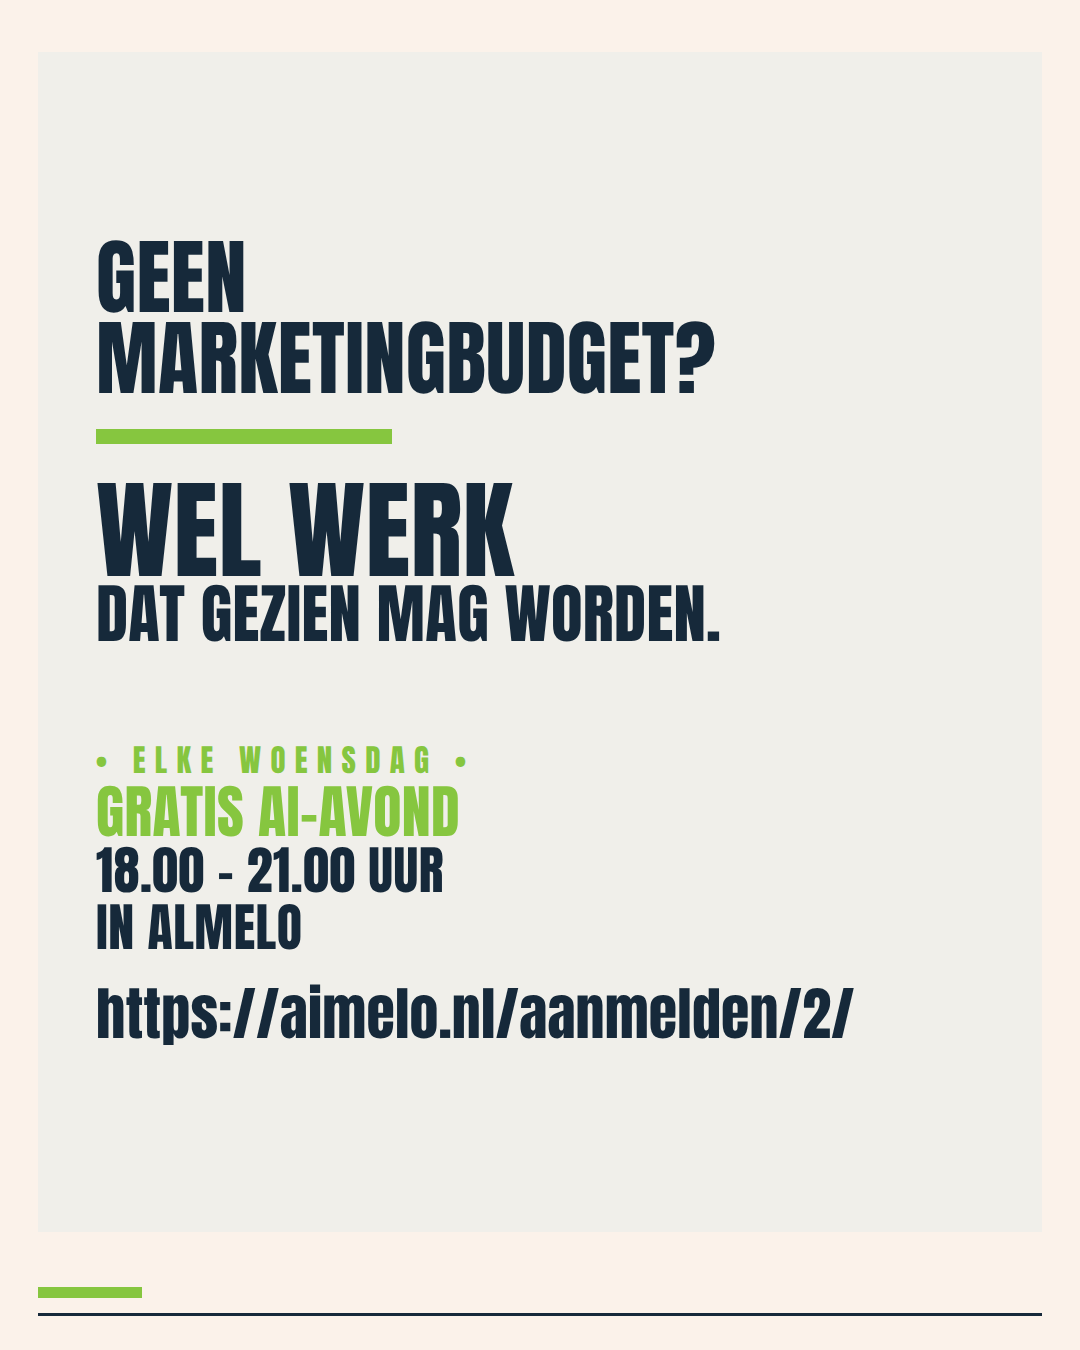
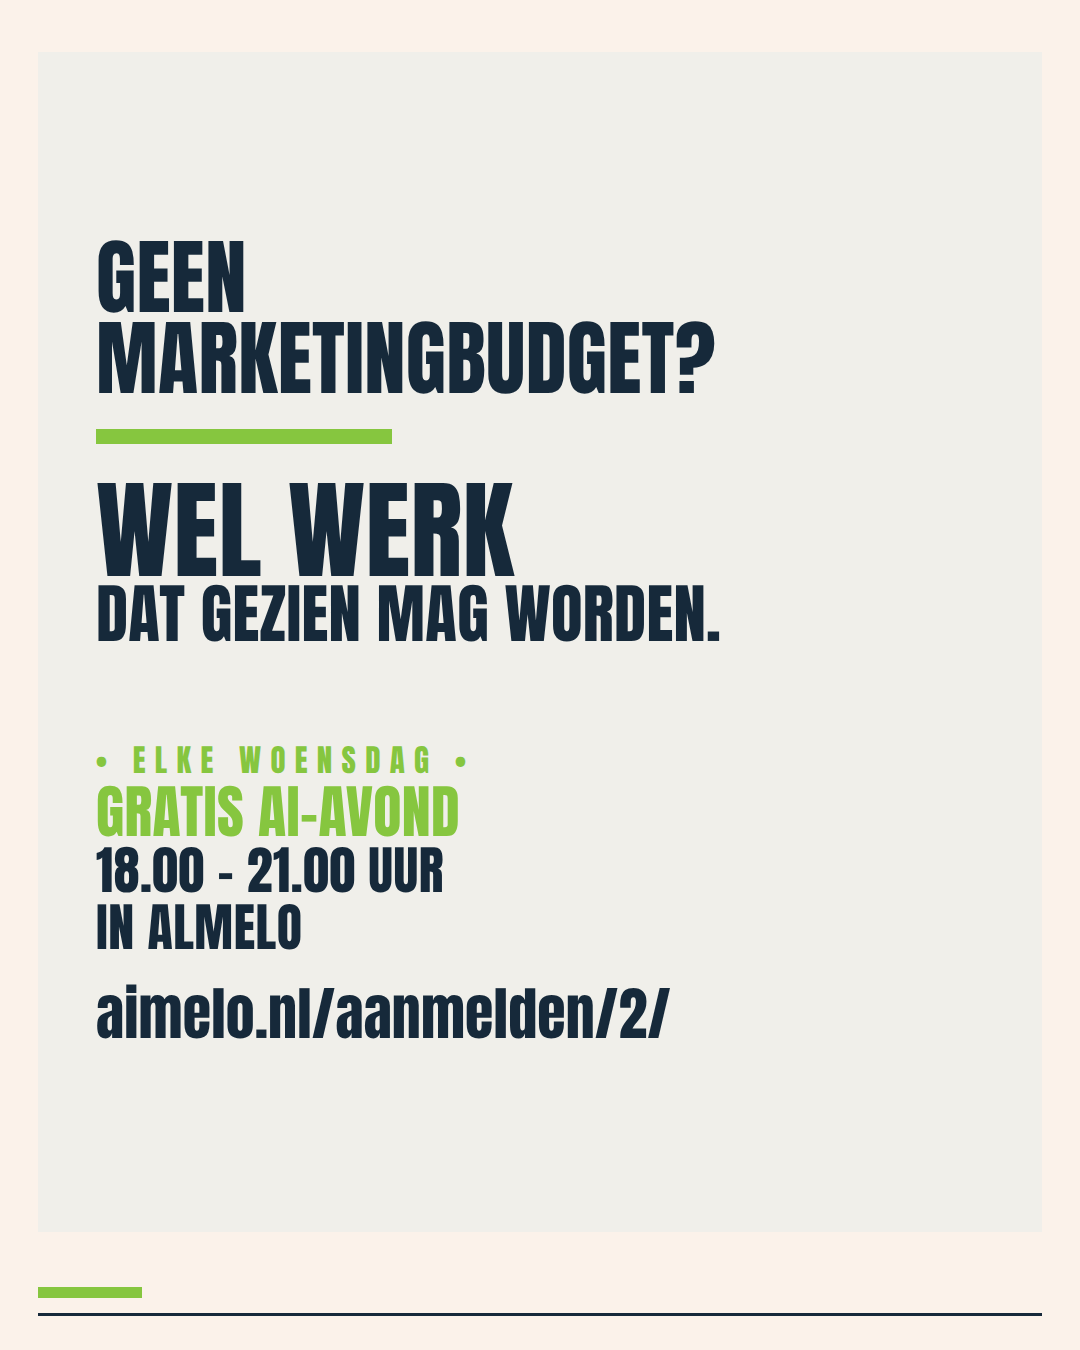
https:// uit de aanmeldlink in beeld
Onderaan elk beeld staat nu aimelo.nl/aanmelden/2/. Dat scheelt ongeveer
een kwart van de breedte en leest rustiger onder het blok met tijd en
locatie. Alle 15 beelden opnieuw gerenderd in beide formaten.

Changed region(s): [[0.0917, 0.7156, 0.7944, 0.7778]]

diff --git a/beeld/bron/dag-01-4x5.html b/beeld/bron/dag-01-4x5.html
@@ -32,7 +32,7 @@ body{background:#FBF2EA;font-family:AntonL,AntonX,Impact,sans-serif;
       <span class="gratis">Gratis AI-avond</span>
       <span class="tijd">18.00 &ndash; 21.00 uur</span>
       <span class="plaats">in Almelo</span>
-      <span class="url" id="url">https://aimelo.nl/aanmelden/2/</span>
+      <span class="url" id="url">aimelo.nl/aanmelden/2/</span>
     </div>
   </div>
   <div class="bar"></div><div class="hair"></div>

diff --git a/beeld/bron/dag-01-9x16.html b/beeld/bron/dag-01-9x16.html
@@ -32,7 +32,7 @@ body{background:#FBF2EA;font-family:AntonL,AntonX,Impact,sans-serif;
       <span class="gratis">Gratis AI-avond</span>
       <span class="tijd">18.00 &ndash; 21.00 uur</span>
       <span class="plaats">in Almelo</span>
-      <span class="url" id="url">https://aimelo.nl/aanmelden/2/</span>
+      <span class="url" id="url">aimelo.nl/aanmelden/2/</span>
     </div>
   </div>
   <div class="bar"></div><div class="hair"></div>

diff --git a/beeld/bron/dag-02-4x5.html b/beeld/bron/dag-02-4x5.html
@@ -32,7 +32,7 @@ body{background:#FBF2EA;font-family:AntonL,AntonX,Impact,sans-serif;
       <span class="gratis">Gratis AI-avond</span>
       <span class="tijd">18.00 &ndash; 21.00 uur</span>
       <span class="plaats">in Almelo</span>
-      <span class="url" id="url">https://aimelo.nl/aanmelden/2/</span>
+      <span class="url" id="url">aimelo.nl/aanmelden/2/</span>
     </div>
   </div>
   <div class="bar"></div><div class="hair"></div>

diff --git a/beeld/bron/dag-02-9x16.html b/beeld/bron/dag-02-9x16.html
@@ -32,7 +32,7 @@ body{background:#FBF2EA;font-family:AntonL,AntonX,Impact,sans-serif;
       <span class="gratis">Gratis AI-avond</span>
       <span class="tijd">18.00 &ndash; 21.00 uur</span>
       <span class="plaats">in Almelo</span>
-      <span class="url" id="url">https://aimelo.nl/aanmelden/2/</span>
+      <span class="url" id="url">aimelo.nl/aanmelden/2/</span>
     </div>
   </div>
   <div class="bar"></div><div class="hair"></div>

diff --git a/beeld/bron/dag-03-4x5.html b/beeld/bron/dag-03-4x5.html
@@ -32,7 +32,7 @@ body{background:#FBF2EA;font-family:AntonL,AntonX,Impact,sans-serif;
       <span class="gratis">Gratis AI-avond</span>
       <span class="tijd">18.00 &ndash; 21.00 uur</span>
       <span class="plaats">in Almelo</span>
-      <span class="url" id="url">https://aimelo.nl/aanmelden/2/</span>
+      <span class="url" id="url">aimelo.nl/aanmelden/2/</span>
     </div>
   </div>
   <div class="bar"></div><div class="hair"></div>

diff --git a/beeld/bron/dag-03-9x16.html b/beeld/bron/dag-03-9x16.html
@@ -32,7 +32,7 @@ body{background:#FBF2EA;font-family:AntonL,AntonX,Impact,sans-serif;
       <span class="gratis">Gratis AI-avond</span>
       <span class="tijd">18.00 &ndash; 21.00 uur</span>
       <span class="plaats">in Almelo</span>
-      <span class="url" id="url">https://aimelo.nl/aanmelden/2/</span>
+      <span class="url" id="url">aimelo.nl/aanmelden/2/</span>
     </div>
   </div>
   <div class="bar"></div><div class="hair"></div>

diff --git a/beeld/bron/dag-04-4x5.html b/beeld/bron/dag-04-4x5.html
@@ -32,7 +32,7 @@ body{background:#FBF2EA;font-family:AntonL,AntonX,Impact,sans-serif;
       <span class="gratis">Gratis AI-avond</span>
       <span class="tijd">18.00 &ndash; 21.00 uur</span>
       <span class="plaats">in Almelo</span>
-      <span class="url" id="url">https://aimelo.nl/aanmelden/2/</span>
+      <span class="url" id="url">aimelo.nl/aanmelden/2/</span>
     </div>
   </div>
   <div class="bar"></div><div class="hair"></div>

diff --git a/beeld/bron/dag-04-9x16.html b/beeld/bron/dag-04-9x16.html
@@ -32,7 +32,7 @@ body{background:#FBF2EA;font-family:AntonL,AntonX,Impact,sans-serif;
       <span class="gratis">Gratis AI-avond</span>
       <span class="tijd">18.00 &ndash; 21.00 uur</span>
       <span class="plaats">in Almelo</span>
-      <span class="url" id="url">https://aimelo.nl/aanmelden/2/</span>
+      <span class="url" id="url">aimelo.nl/aanmelden/2/</span>
     </div>
   </div>
   <div class="bar"></div><div class="hair"></div>

diff --git a/beeld/bron/dag-05-4x5.html b/beeld/bron/dag-05-4x5.html
@@ -32,7 +32,7 @@ body{background:#FBF2EA;font-family:AntonL,AntonX,Impact,sans-serif;
       <span class="gratis">Gratis AI-avond</span>
       <span class="tijd">18.00 &ndash; 21.00 uur</span>
       <span class="plaats">in Almelo</span>
-      <span class="url" id="url">https://aimelo.nl/aanmelden/2/</span>
+      <span class="url" id="url">aimelo.nl/aanmelden/2/</span>
     </div>
   </div>
   <div class="bar"></div><div class="hair"></div>

diff --git a/beeld/bron/dag-05-9x16.html b/beeld/bron/dag-05-9x16.html
@@ -32,7 +32,7 @@ body{background:#FBF2EA;font-family:AntonL,AntonX,Impact,sans-serif;
       <span class="gratis">Gratis AI-avond</span>
       <span class="tijd">18.00 &ndash; 21.00 uur</span>
       <span class="plaats">in Almelo</span>
-      <span class="url" id="url">https://aimelo.nl/aanmelden/2/</span>
+      <span class="url" id="url">aimelo.nl/aanmelden/2/</span>
     </div>
   </div>
   <div class="bar"></div><div class="hair"></div>

diff --git a/beeld/bron/dag-06-4x5.html b/beeld/bron/dag-06-4x5.html
@@ -32,7 +32,7 @@ body{background:#FBF2EA;font-family:AntonL,AntonX,Impact,sans-serif;
       <span class="gratis">Gratis AI-avond</span>
       <span class="tijd">18.00 &ndash; 21.00 uur</span>
       <span class="plaats">in Almelo</span>
-      <span class="url" id="url">https://aimelo.nl/aanmelden/2/</span>
+      <span class="url" id="url">aimelo.nl/aanmelden/2/</span>
     </div>
   </div>
   <div class="bar"></div><div class="hair"></div>

diff --git a/beeld/bron/dag-06-9x16.html b/beeld/bron/dag-06-9x16.html
@@ -32,7 +32,7 @@ body{background:#FBF2EA;font-family:AntonL,AntonX,Impact,sans-serif;
       <span class="gratis">Gratis AI-avond</span>
       <span class="tijd">18.00 &ndash; 21.00 uur</span>
       <span class="plaats">in Almelo</span>
-      <span class="url" id="url">https://aimelo.nl/aanmelden/2/</span>
+      <span class="url" id="url">aimelo.nl/aanmelden/2/</span>
     </div>
   </div>
   <div class="bar"></div><div class="hair"></div>
